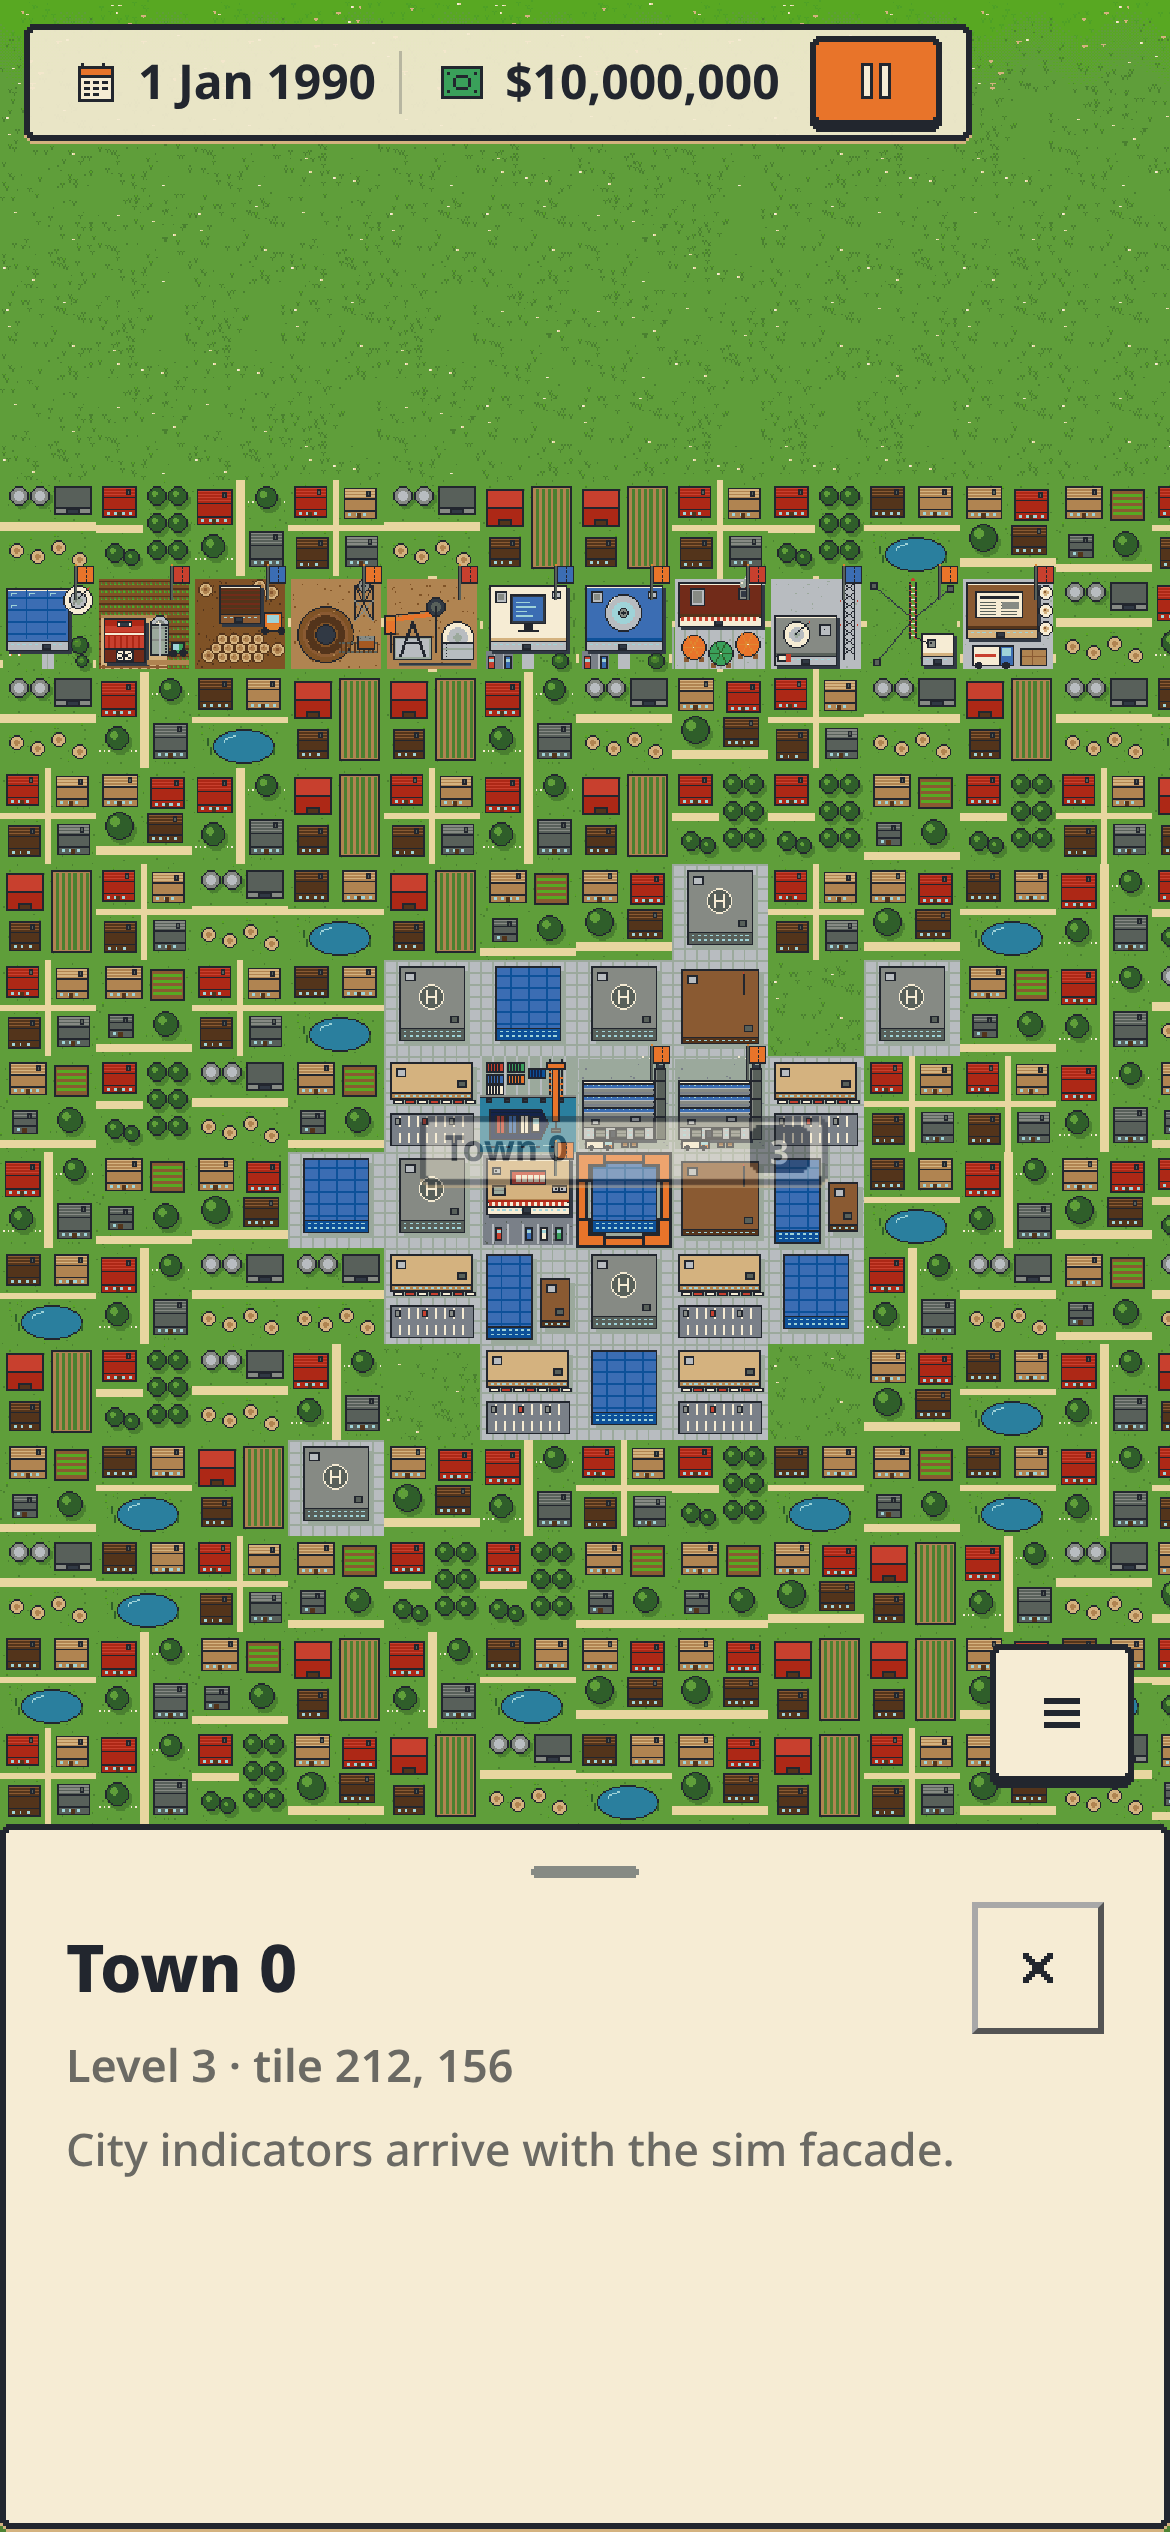
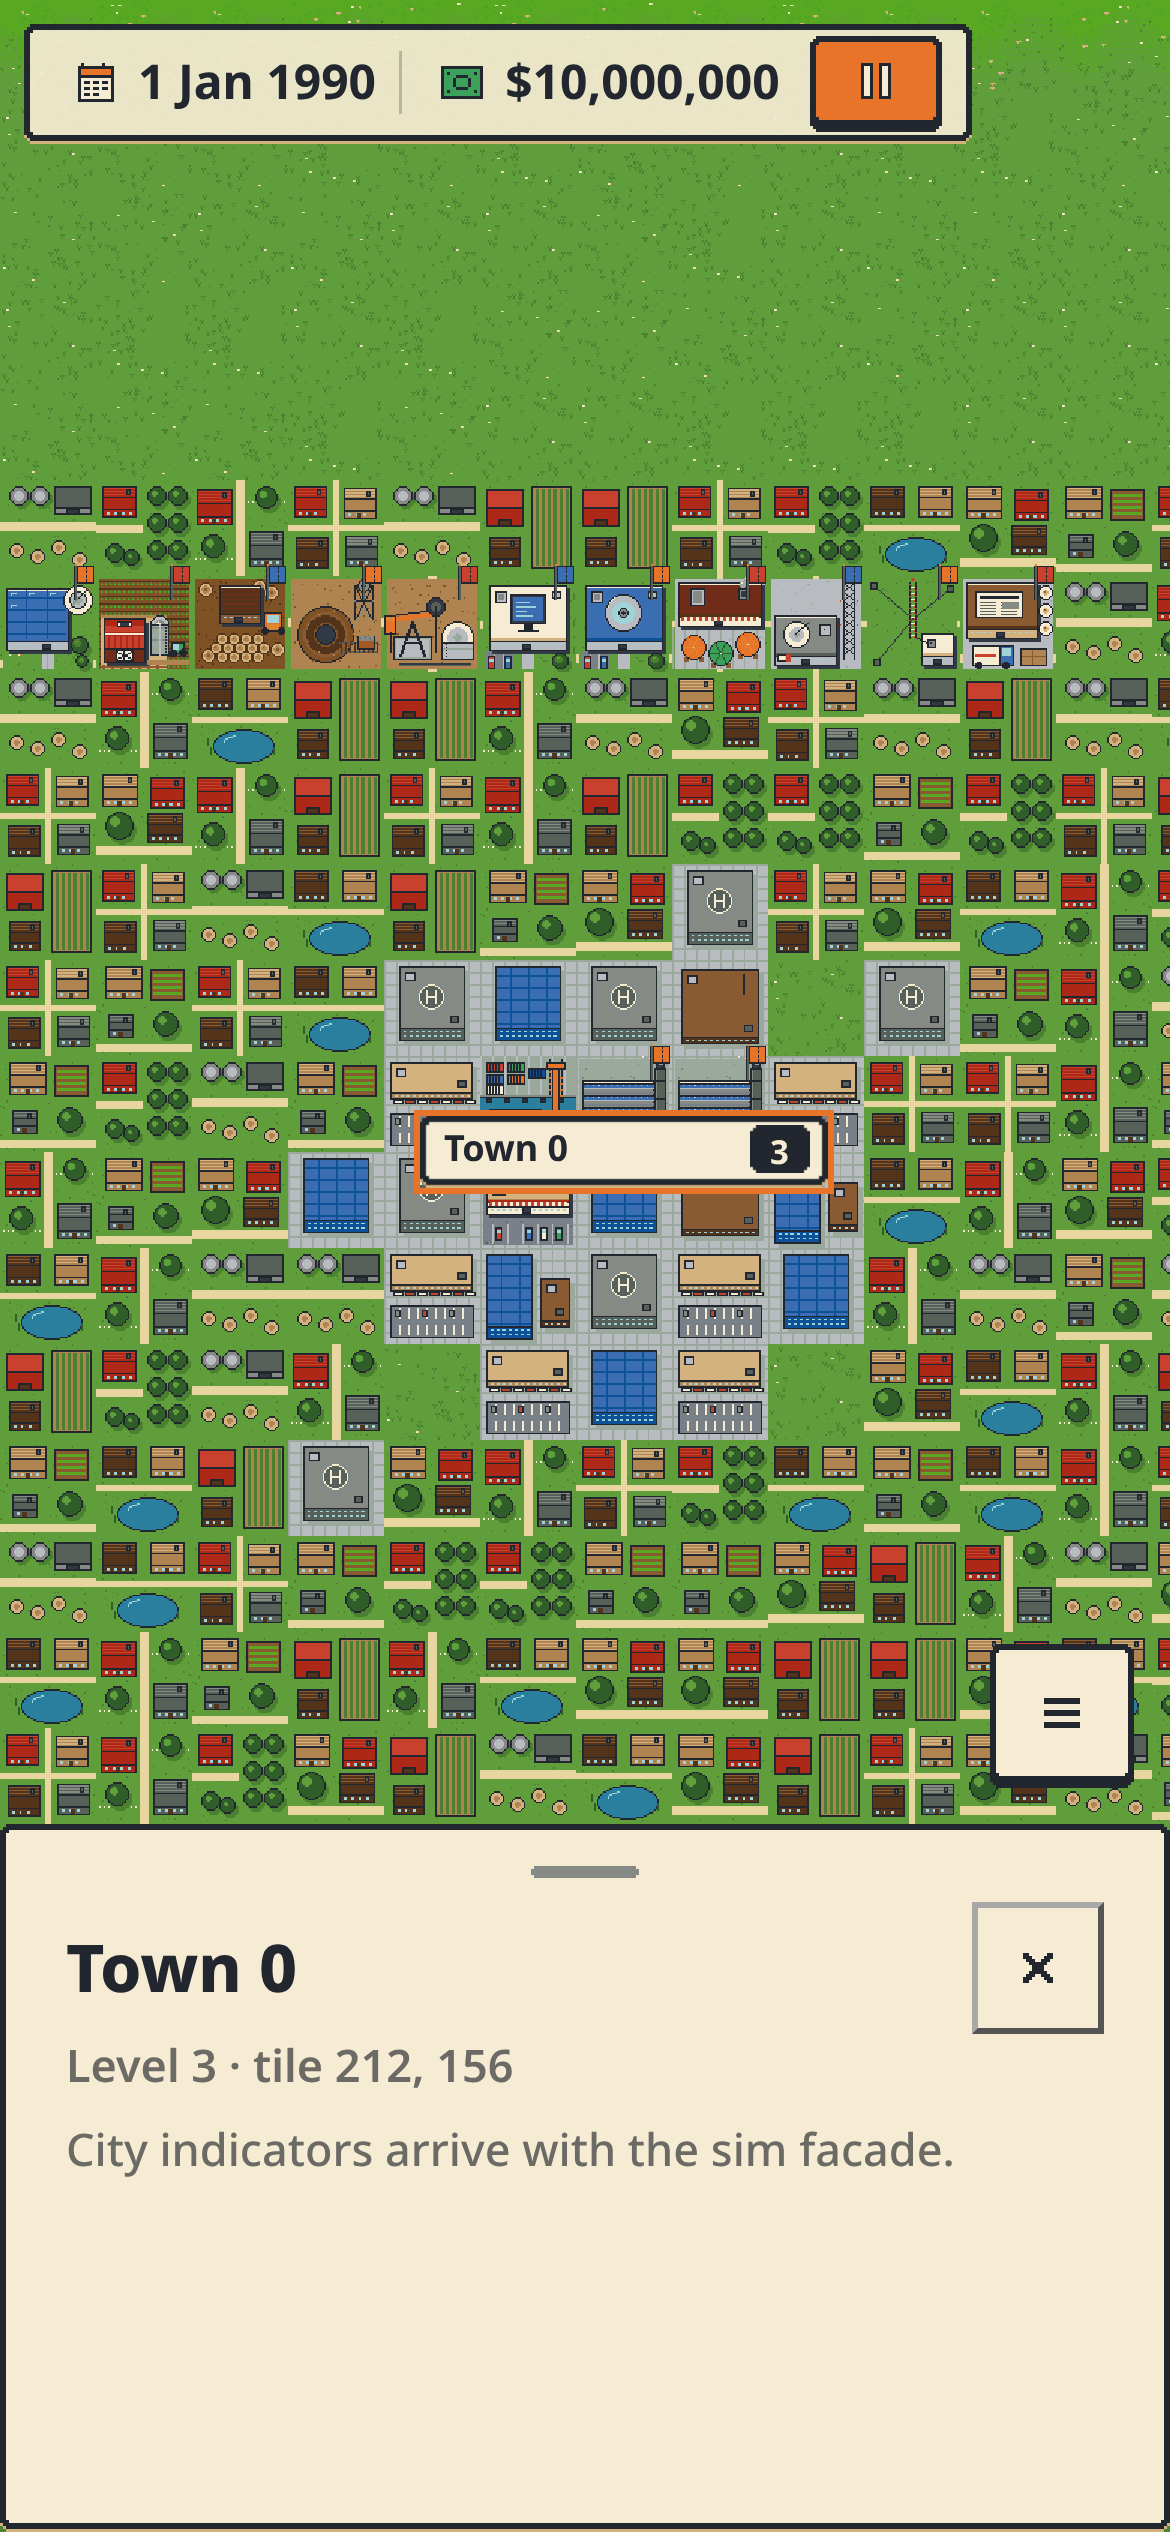
Plates: town card open highlights the plate, no tile outline or fade (#250 review)

Changed region(s): [[0.3385, 0.4368, 0.7385, 0.4992]]

diff --git a/client/src/ui/plates.ts b/client/src/ui/plates.ts
@@ -4,7 +4,8 @@
  * the map and below panels and toasts; a plate outside the part of the map a panel leaves
  * visible is hidden. Plates don't take taps (Esteban, PR #336): a tap goes to the tile
  * underneath, a long press or right click on a plate opens its town card (`townAt`), and a
- * plate goes see-through while the tile under it is selected.
+ * plate goes see-through while the tile under it is selected. While its town card is open the
+ * plate stays opaque and is drawn highlighted.
  */
 import { TILE_PX, View } from "../chunkmath";
 import { TownInfo } from "../mapdata";
@@ -54,6 +55,8 @@ export class TownPlates {
   private shown = new Map<number, Rect>();
   /** The selected tile; plates over it go see-through. */
   selected: { x: number; y: number } | null = null;
+  /** The town whose card is open; its plate is highlighted and never faded. */
+  highlight: number | null = null;
 
   constructor() {
     this.layer.className = "plates";
@@ -116,7 +119,9 @@ export class TownPlates {
       if (!show) continue;
       this.shown.set(t.id, r);
       p.el.style.transform = `translate(${r.x}px, ${r.y}px)`;
-      p.el.classList.toggle("dim", Boolean(sel && overlaps(sel, r)));
+      const hl = t.id === this.highlight;
+      p.el.classList.toggle("hl", hl);
+      p.el.classList.toggle("dim", !hl && Boolean(sel && overlaps(sel, r)));
     }
   }
 

diff --git a/client/tests/plates.test.ts b/client/tests/plates.test.ts
@@ -70,4 +70,21 @@ describe("town plates (#250, view brief section 2)", () => {
     plates.update(view, 1, area);
     expect(el.classList.contains("dim")).toBe(false);
   });
+
+  it("is highlighted, never faded, while its town card is open", () => {
+    const plates = new TownPlates();
+    plates.setTowns([town(1, 2), { ...town(2, 1), x: 30 }]);
+    const view = makeView(0, 0, 1280, 800, 1, 1);
+    const area = { x: 0, y: 0, w: 1280, h: 800 };
+    const [a, b] = Array.from(plates.layer.querySelectorAll<HTMLElement>(".plate"));
+    plates.selected = { x: 10, y: 20 };
+    plates.highlight = 1;
+    plates.update(view, 1, area);
+    expect(a.classList.contains("hl")).toBe(true);
+    expect(a.classList.contains("dim")).toBe(false);
+    expect(b.classList.contains("hl")).toBe(false);
+    plates.highlight = null;
+    plates.update(view, 1, area);
+    expect(a.classList.contains("hl")).toBe(false);
+  });
 });

diff --git a/client/src/main.ts b/client/src/main.ts
@@ -236,8 +236,12 @@ async function boot() {
   const ptPerWorld = () => view.zoom / resolution;
   const showSelection = () => {
     const open = shell.current && selected && !shell.current.key.startsWith("menu");
-    selection.visible = Boolean(open);
-    plates.selected = open ? selected : null;
+    // With the town card open the town's plate is highlighted instead: no tile outline and no
+    // fade (Esteban, PR #336).
+    const town = open && shell.current!.key.startsWith("town:") ? Number(shell.current!.key.slice(5)) : null;
+    selection.visible = Boolean(open) && town === null;
+    plates.selected = open && town === null ? selected : null;
+    plates.highlight = town;
     if (open) selection.position.set(selected!.x * TILE_PX, selected!.y * TILE_PX);
   };
   shell.onLayout = (h) => {

diff --git a/client/src/ui/shell.css b/client/src/ui/shell.css
@@ -93,6 +93,8 @@
 .plate[hidden] { display: none; }
 .plate { transition: opacity 0.12s ease; }
 .plate.dim { opacity: 0.4; }
+/* Town card open: the plate is highlighted in the selection orange (placeholder until the Artist's spec). */
+.plate.hl { box-shadow: 0 0 0 2px #e8742a; }
 .plate-name { flex: 1; min-width: 0; overflow: hidden; white-space: nowrap; text-overflow: ellipsis; text-align: left; }
 .plate-level { flex: none; height: 16px; box-sizing: border-box; display: grid; place-items: center; padding: 0 3px; color: #f6ecd4;
   font-size: 11px; }
